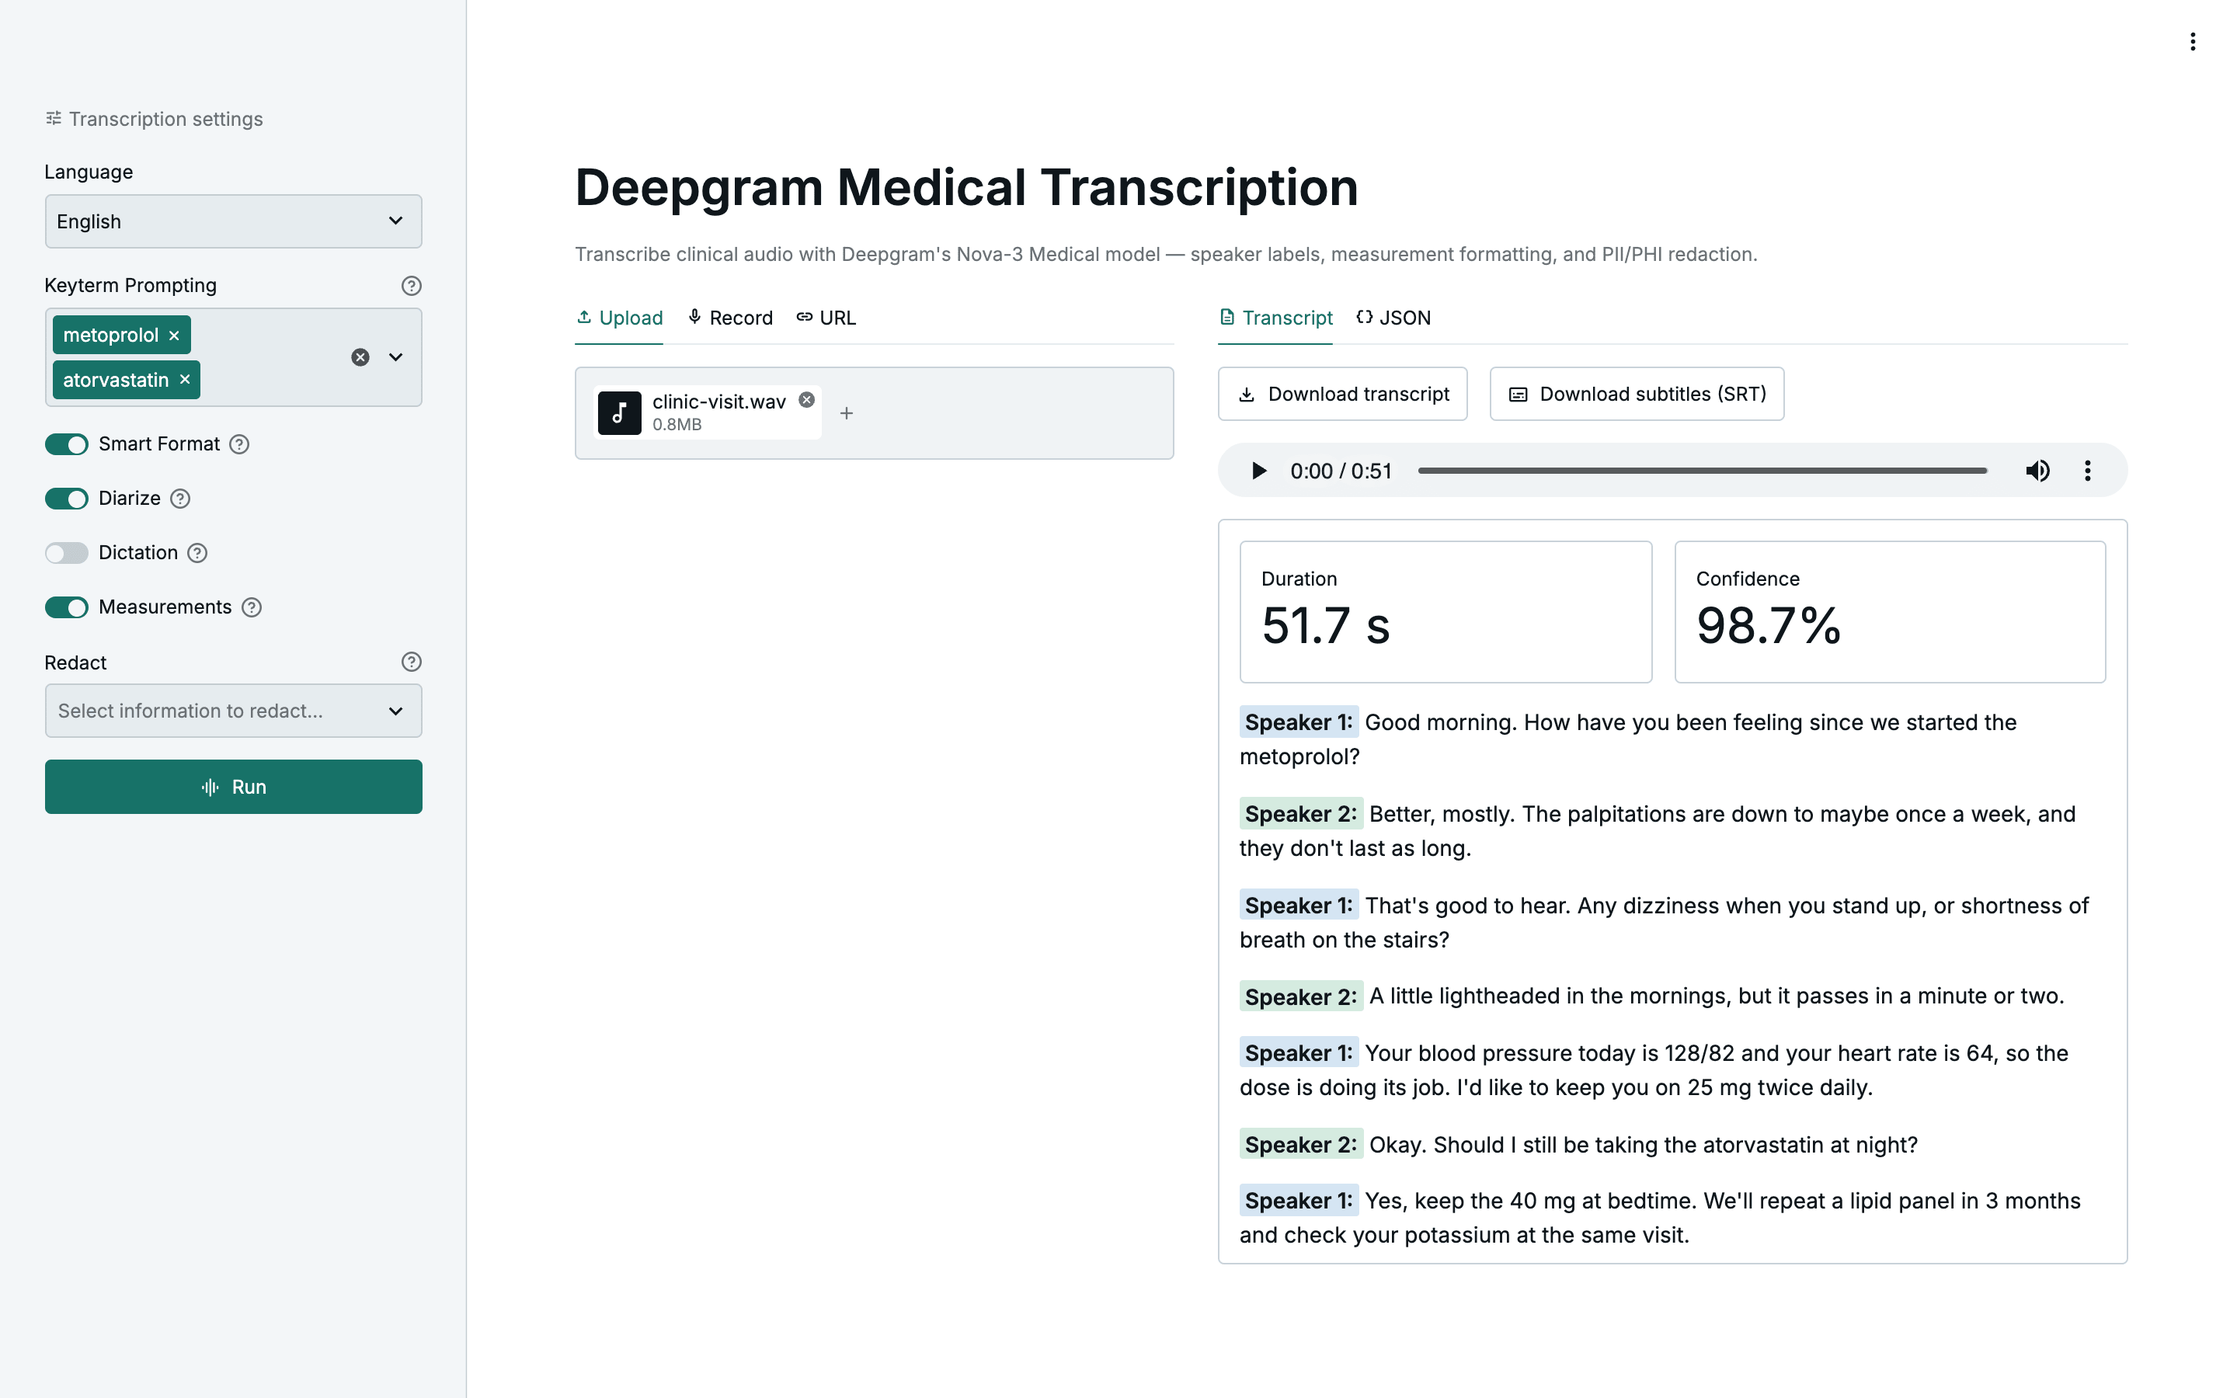
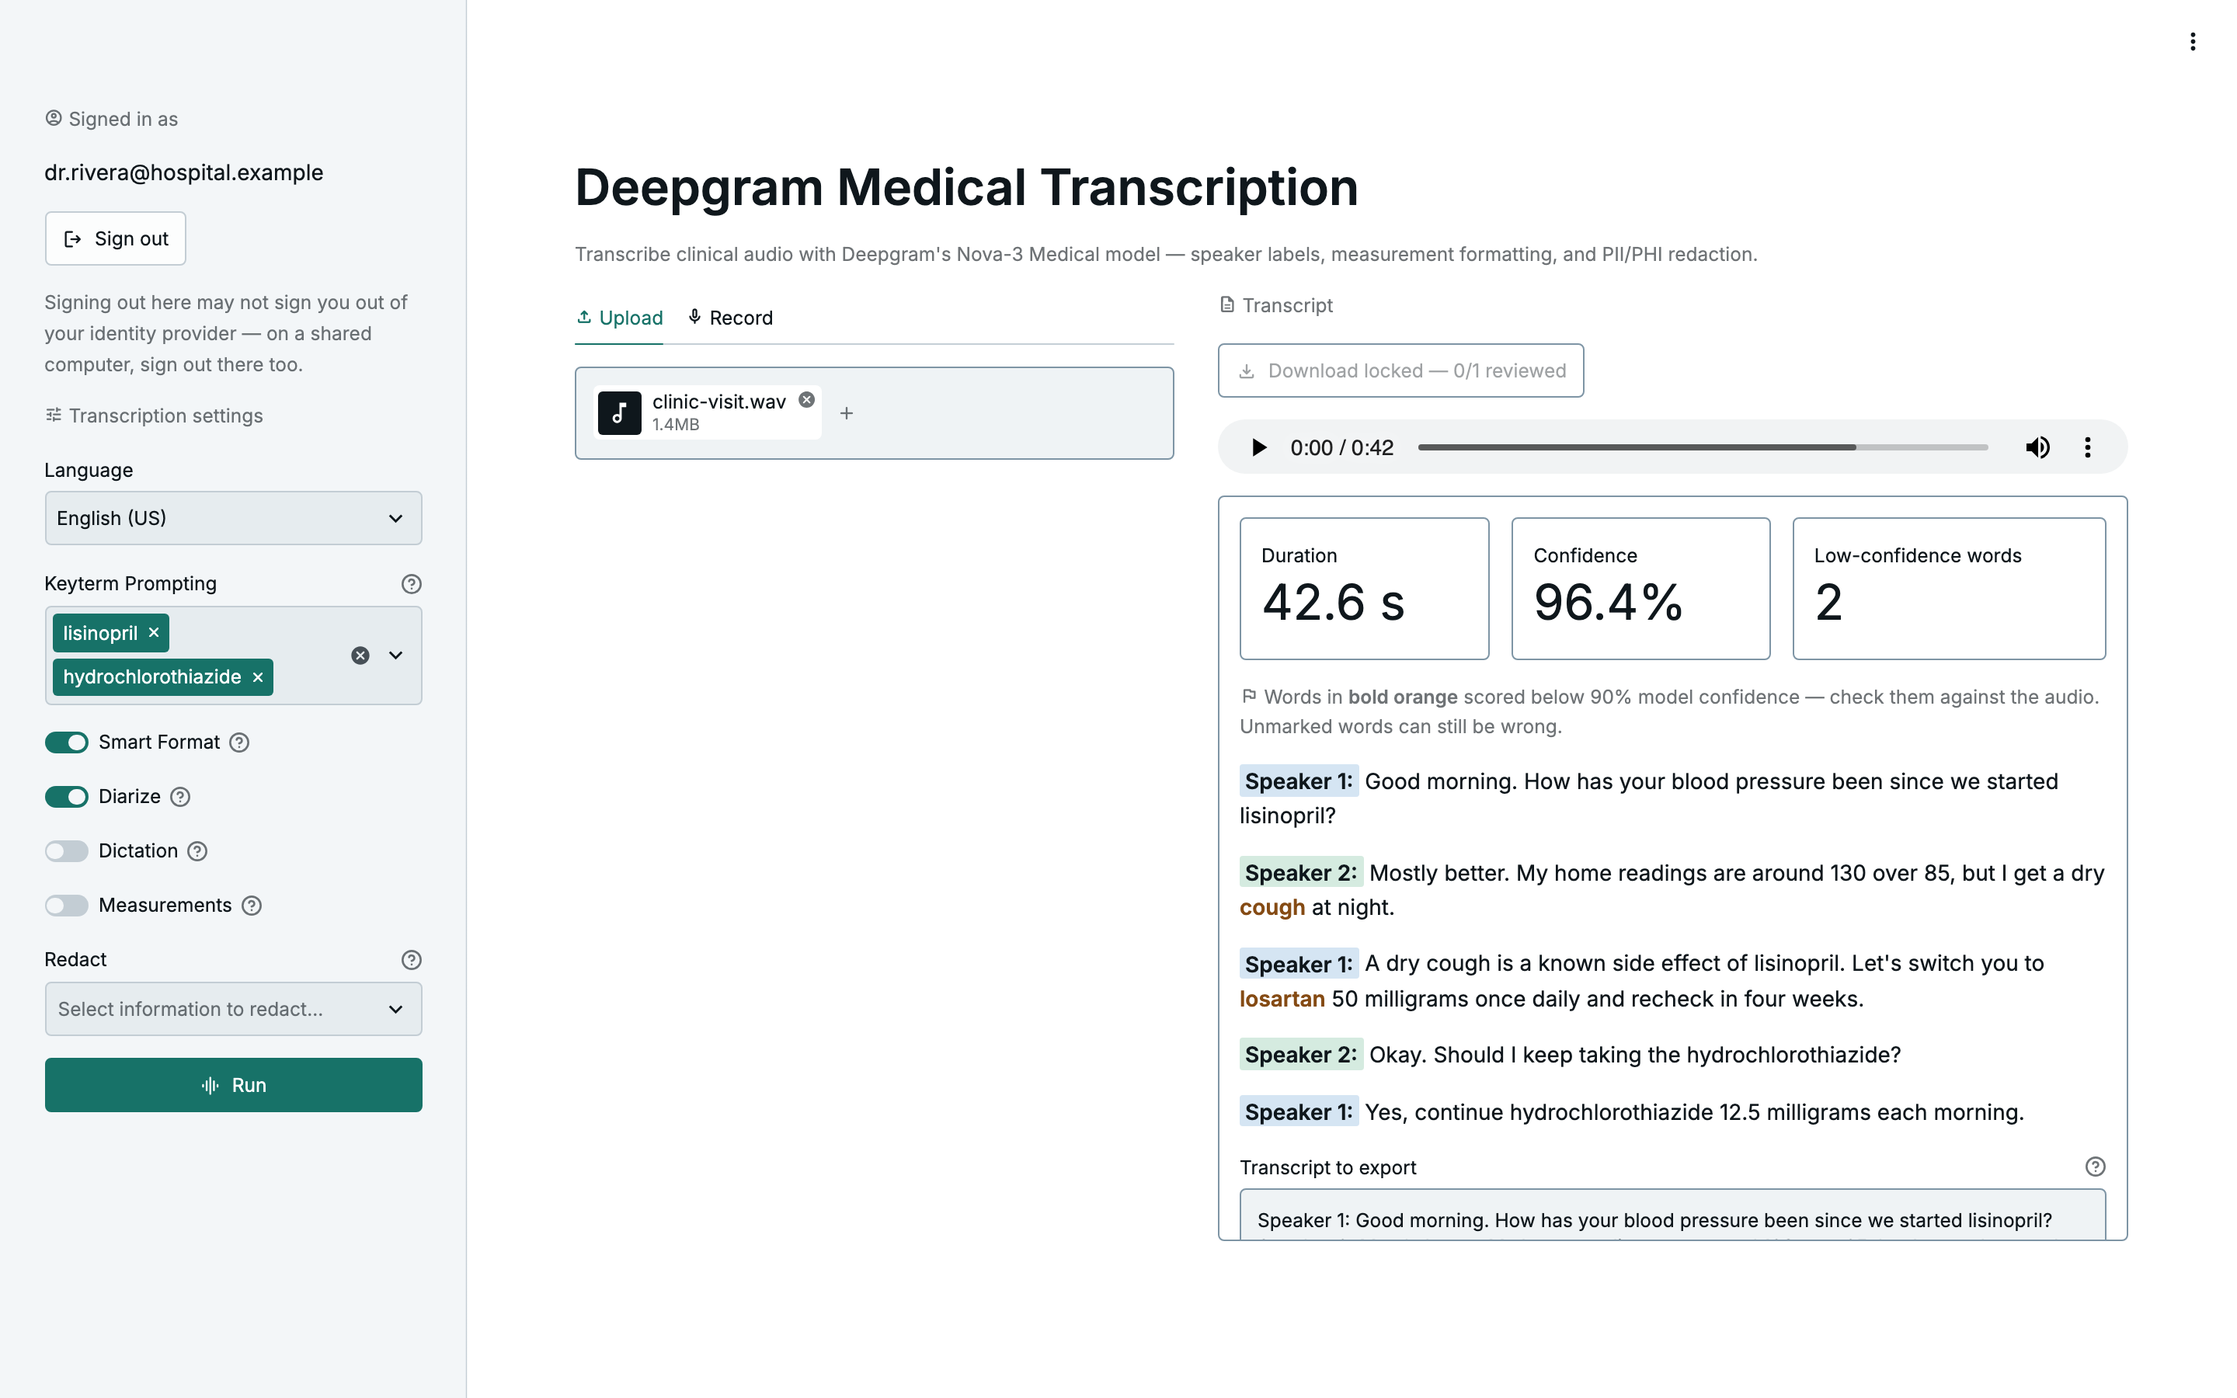
docs(readme): regenerate light and dark screenshots
Recapture both README screenshots from the current app. The real
streamlit_app.py renders a synthetic, fictional encounter under a
simulated sign-in; no Deepgram call, no real account. Captured with
headless Chromium at 1440x900 @2x with an emulated prefers-color-scheme,
then losslessly optimized.

The shot shows the signed-in identity, the two input tabs, Measurements
off, two low-confidence flags, the review editor, and the locked
Download label. Doses read "milligrams", matching Smart Format output
with Measurements off.

Also replace the "computed, not yet measured" borderColor labels with
in-browser measurements. The checkbox border and text_area outline
render exactly borderColor, at 3.12:1 against the canvas in both modes,
and lower against the fills inside them (2.75-2.94:1). The README alt
text now describes the new shot, and the stale-screenshot note is gone.

diff --git a/CLAUDE.md b/CLAUDE.md
@@ -95,7 +95,7 @@ Least-privilege: top-level `contents: read` with `contents: write` confined to t
 
 Re-imports the core constants under their old underscore names (`_LANGUAGES`, `_REDACT_GROUPS`, `_AUDIO_EXTENSIONS`, the `DEFAULT_*`/`MAX_*` names, `LOW_CONFIDENCE_THRESHOLD`, `build_options`, `option_warnings`, `transcribe_batch`) and aliases the walkers (`from nova.results import Token, transcript_text as _transcript_text, diarized_segments as _diarized_segments, first_alternative as _first_alternative, flagged_runs as _flagged_runs, low_confidence_count as _low_confidence_count, speaker_label as _speaker_label`) — preserving every existing test patch point — and imports the access policy (`from nova.access import Decision, SecretsSnapshot, anonymous_opt_out, decide_access, report_problem`, plus `ALLOW_ANONYMOUS_ENV` from config) and the audit trail as a module (`from nova import audit`, called as `audit.emit(...)` — which is also the patch point for the fail-closed download test). (`first_alternative` backs the per-result Confidence metric.)
 
-Visual theming lives in `.streamlit/config.toml` — the **"Reading room"** clinical theme pair. `[theme]` holds only what both modes share (typography, `[[theme.fontFaces]]`, radius, border/link flags); colors live in **`[theme.dark]`** (blue-slate canvas `#11171B`, text `#E3E9ED`) and **`[theme.light]`** ("clinical white": canvas `#FFFFFF`, slate-ink text `#0F171C`), each with its own `.sidebar` table giving the Features form a surface one step off the canvas. **Both mode tables must exist**: Streamlit shows the Settings-menu Light/Dark/System switcher *only* then, and starts on "System" (the OS preference); delete either and the app locks to the other with no switcher. There is deliberately **no `base` key** — each mode table already starts from Streamlit's matching built-in. The semantic color keys (`blueColor`…`grayColor`, hues ~60° apart, same hue family per speaker in both modes) back the diarized speaker highlights, and all six `_SPEAKER_COLORS` names (`blue`/`green`/`violet`/`orange`/`red`/`gray`) must stay defined **in both mode tables**. **Every contrast figure in the config is WCAG, measured in-browser on the color Streamlit actually renders, including the ones it derives** (1.64 frontend): `<c>BackgroundColor` is `<c>Color` at 20% alpha in dark / **10%** in light (alerts, speaker tints), `<c>TextColor` is `<c>Color` ±15 HSL lightness (alert body text), and captions are body text at **60% opacity** — so a palette change must be re-checked on the derived pair, not the swatch. Two consequences are baked in: light mode sets the seven `*BackgroundColor` keys **explicitly at 20%**, because the 10% default left speakers 1/2/3/6 an indistinguishable pale wash (1.10–1.15:1 against white); and light `textColor` is darker than body text needs (`#0F171C`, 18:1) so that 60%-opacity captions still clear 4.5:1 on the sidebar. (Nord, the previous single-mode theme, failed four checks: `st.error` text 4.24:1, the Run label 4.03:1, primary-as-text 3.10:1, sidebar toggles 2.50:1.) **Dark-mode `primaryColor` is split by zone, and that is load-bearing.** Streamlit **hardcodes the `type="primary"` button label white** (no `primaryTextColor` exists, and the frontend runs no luminance math), and on the dark canvas no single teal can both carry a white label (≥4.5:1) *and* read as text itself (≥4.5:1) — the two bands do not overlap. So `[theme.dark].primaryColor = "#2EB3A5"` (6.98:1 on canvas: active tab label/underline, focus rings, the `st.status` progress bar) never has white text on it, while `[theme.dark.sidebar].primaryColor = "#1D7F75"` fills the Run button and the multiselect chips (white 4.83:1) and the toggles (3.33:1 on the sidebar). This depends on **the Run button — the app's only `type="primary"` — living in the sidebar**; moved to the main area its dark-mode label drops to 2.59:1. Light mode needs no split: on white the two constraints coincide, so one teal (`#177268`) is 5.76:1 both under a white label and as text. The **low-confidence flag** (`:orange[**word**]`) renders in the *derived* orange text color, not `orangeColor`: measured in-browser on the output panel (whose background is the canvas) at **#EDBE8C 10.62:1** dark / **#854B14 6.97:1** light, bold at weight 600. Bold is the non-color cue WCAG 1.4.1 needs — in dark mode orange differs from body text by only ~1.4:1 — so keep other bold out of transcript body text; and the flag has no background, so it cannot be read as a `:{color}-background` speaker chip. **`borderColor` is raised in both mode tables (not the `.sidebar` tables) for the review checkbox**: an unchecked `st.checkbox` is drawn only by its `borderColor` outline (1.64 bundle: `lightenedBg05` fill, `borderColor` border), which WCAG 1.4.11 needs at 3:1 against the canvas — the old `#36434D`/`#C8D2D9` were 1.78:1/1.54:1, the new **`#546878`/`#7E95A5` are 3.12:1 each**. Those two figures are the **one exception to the in-browser rule above: computed, not yet measured**, and labelled so in the config, so measure them (with the screenshot refresh) before relying on them. A checked box fills with the main `primaryColor` (6.98:1 dark / 5.76:1 light on the canvas); its white tick is not relied on. The change also darkens every main-area widget and container border (the output panel, metric cards, the uploader); the sidebar tables keep their own softer borders, since the checkbox renders only in the main area. The sidebar's **signed-in email** is `st.text` — full-opacity body text, measured in-browser at **16.69:1** light / **13.15:1** dark on the sidebar — because inside the "Signed in as" caption Markdown autolinked it and the 60% opacity dimmed that link to 2.40:1 / 3.47:1 (a code span avoids the autolink but still fails at caption opacity). Typography loads **Inter** (`font`, UI/headings) and **JetBrains Mono** (`codeFont`, for any code rendering) **self-hosted** from `static/` (served at `app/static/*` via `[server].enableStaticServing`) with a system-stack fallback — Streamlit's bundled theme templates pull fonts from Google Fonts and that is deliberately not done here, so no third-party font CDN is contacted; `baseFontSize = 14` and the six-entry `headingFontSizes` tame Streamlit's oversized defaults. Pure config, so it never touches the test suite. `st.set_page_config(page_title=…, page_icon="🩺", layout="wide")` is the first Streamlit command.
+Visual theming lives in `.streamlit/config.toml` — the **"Reading room"** clinical theme pair. `[theme]` holds only what both modes share (typography, `[[theme.fontFaces]]`, radius, border/link flags); colors live in **`[theme.dark]`** (blue-slate canvas `#11171B`, text `#E3E9ED`) and **`[theme.light]`** ("clinical white": canvas `#FFFFFF`, slate-ink text `#0F171C`), each with its own `.sidebar` table giving the Features form a surface one step off the canvas. **Both mode tables must exist**: Streamlit shows the Settings-menu Light/Dark/System switcher *only* then, and starts on "System" (the OS preference); delete either and the app locks to the other with no switcher. There is deliberately **no `base` key** — each mode table already starts from Streamlit's matching built-in. The semantic color keys (`blueColor`…`grayColor`, hues ~60° apart, same hue family per speaker in both modes) back the diarized speaker highlights, and all six `_SPEAKER_COLORS` names (`blue`/`green`/`violet`/`orange`/`red`/`gray`) must stay defined **in both mode tables**. **Every contrast figure in the config is WCAG, measured in-browser on the color Streamlit actually renders, including the ones it derives** (1.64 frontend): `<c>BackgroundColor` is `<c>Color` at 20% alpha in dark / **10%** in light (alerts, speaker tints), `<c>TextColor` is `<c>Color` ±15 HSL lightness (alert body text), and captions are body text at **60% opacity** — so a palette change must be re-checked on the derived pair, not the swatch. Two consequences are baked in: light mode sets the seven `*BackgroundColor` keys **explicitly at 20%**, because the 10% default left speakers 1/2/3/6 an indistinguishable pale wash (1.10–1.15:1 against white); and light `textColor` is darker than body text needs (`#0F171C`, 18:1) so that 60%-opacity captions still clear 4.5:1 on the sidebar. (Nord, the previous single-mode theme, failed four checks: `st.error` text 4.24:1, the Run label 4.03:1, primary-as-text 3.10:1, sidebar toggles 2.50:1.) **Dark-mode `primaryColor` is split by zone, and that is load-bearing.** Streamlit **hardcodes the `type="primary"` button label white** (no `primaryTextColor` exists, and the frontend runs no luminance math), and on the dark canvas no single teal can both carry a white label (≥4.5:1) *and* read as text itself (≥4.5:1) — the two bands do not overlap. So `[theme.dark].primaryColor = "#2EB3A5"` (6.98:1 on canvas: active tab label/underline, focus rings, the `st.status` progress bar) never has white text on it, while `[theme.dark.sidebar].primaryColor = "#1D7F75"` fills the Run button and the multiselect chips (white 4.83:1) and the toggles (3.33:1 on the sidebar). This depends on **the Run button — the app's only `type="primary"` — living in the sidebar**; moved to the main area its dark-mode label drops to 2.59:1. Light mode needs no split: on white the two constraints coincide, so one teal (`#177268`) is 5.76:1 both under a white label and as text. The **low-confidence flag** (`:orange[**word**]`) renders in the *derived* orange text color, not `orangeColor`: measured in-browser on the output panel (whose background is the canvas) at **#EDBE8C 10.62:1** dark / **#854B14 6.97:1** light, bold at weight 600. Bold is the non-color cue WCAG 1.4.1 needs — in dark mode orange differs from body text by only ~1.4:1 — so keep other bold out of transcript body text; and the flag has no background, so it cannot be read as a `:{color}-background` speaker chip. **`borderColor` is raised in both mode tables (not the `.sidebar` tables) for the review checkbox**: an unchecked `st.checkbox` is drawn only by its `borderColor` outline (1.64 bundle: `lightenedBg05` fill, `borderColor` border), which WCAG 1.4.11 needs at 3:1 against the canvas — the old `#36434D`/`#C8D2D9` were 1.78:1/1.54:1, the new **`#546878`/`#7E95A5` measure 3.12:1 each** in-browser, for both the unchecked checkbox border and the `st.text_area` outline, which render exactly `borderColor` on the canvas. Against the fills *inside* those borders they are lower (the text_area's own fill 2.75:1 dark / 2.80:1 light; the dark checkbox's derived `#161D23` interior 2.94:1). 1.4.11 is met on the outer boundary, against the canvas, so do not quote more than that. A checked box fills with the main `primaryColor` (6.98:1 dark / 5.76:1 light on the canvas); its white tick is not relied on. The change also darkens every main-area widget and container border (the output panel, metric cards, the uploader); the sidebar tables keep their own softer borders, since the checkbox renders only in the main area. The sidebar's **signed-in email** is `st.text` — full-opacity body text, measured in-browser at **16.69:1** light / **13.15:1** dark on the sidebar — because inside the "Signed in as" caption Markdown autolinked it and the 60% opacity dimmed that link to 2.40:1 / 3.47:1 (a code span avoids the autolink but still fails at caption opacity). Typography loads **Inter** (`font`, UI/headings) and **JetBrains Mono** (`codeFont`, for any code rendering) **self-hosted** from `static/` (served at `app/static/*` via `[server].enableStaticServing`) with a system-stack fallback — Streamlit's bundled theme templates pull fonts from Google Fonts and that is deliberately not done here, so no third-party font CDN is contacted; `baseFontSize = 14` and the six-entry `headingFontSizes` tame Streamlit's oversized defaults. Pure config, so it never touches the test suite. `st.set_page_config(page_title=…, page_icon="🩺", layout="wide")` is the first Streamlit command.
 
 1. **Access gate** — `_access_gate()` runs at module level **right after the title and subtitle, before the API-key resolution** (`access_decision = _access_gate()`, then `st.stop()` on `None`). It feeds `decide_access` `_secrets_snapshot()` (a guarded read of `[auth]`, `[access]`, and the opt-out's presence through the **public** `st.secrets`, so AppTest's `at.secrets` drives it; a `StreamlitSecretNotFoundError` is `missing` only for `error_id == "no-secrets-found"`, anything else `malformed`), `st.user.to_dict()`, `anonymous_opt_out(os.environ)`, `_dotenv_has_opt_out()`, `bool(st.get_option("server.trustedUserHeaders"))`, `_authlib_installed()` (`find_spec("authlib")`) and `time.time()`; the two probes are test seams. Both opt-out detectors go through `_names_opt_out(keys)`, a **presence** check over the file's keys (iterating `st.secrets` / `dotenv_values()`), **case-insensitive** because Windows' `os.environ` is — a lowercase `nova_allow_anonymous` in either file lands there as the real variable — and value-blind, because Streamlit mirrors a top-level secret as `str(value)` (a TOML `= 1` becomes `"1"`). It renders:
 

diff --git a/README.md b/README.md
@@ -8,10 +8,10 @@ Streamlit application for medical transcription using Deepgram's Nova-3 Medical 
 
 <picture>
   <source media="(prefers-color-scheme: dark)" srcset="docs/screenshot-dark.png">
-  <img alt="An earlier version of the app showing a diarized clinic-visit transcript: a Features sidebar with keyterms, Diarize and Measurements enabled; an Upload tab holding clinic-visit.wav; and the transcript output with Duration and Confidence metrics, an audio player, and color-coded Speaker 1 / Speaker 2 lines." src="docs/screenshot-light.png">
+  <img alt="The app signed in as dr.rivera@hospital.example. The settings sidebar has the keyterms lisinopril and hydrochlorothiazide, with Smart Format and Diarize on. The Upload tab holds clinic-visit.wav. The transcript panel shows an audio player, Duration, Confidence and Low-confidence words metrics, and color-coded Speaker 1 and Speaker 2 lines with two words flagged in bold orange. The Download button reads 'Download locked — 0/1 reviewed'." src="docs/screenshot-light.png">
 </picture>
 
-<sub>Screenshot uses a synthetic, fictional transcript — no real patient audio. It is out of date: it predates sign-in, the low-confidence flags, and the review/sign-off gate on Download, and will be regenerated.</sub>
+<sub>Screenshot uses a synthetic, fictional transcript and a simulated sign-in — no real patient audio or account.</sub>
 
 ## Features
 
